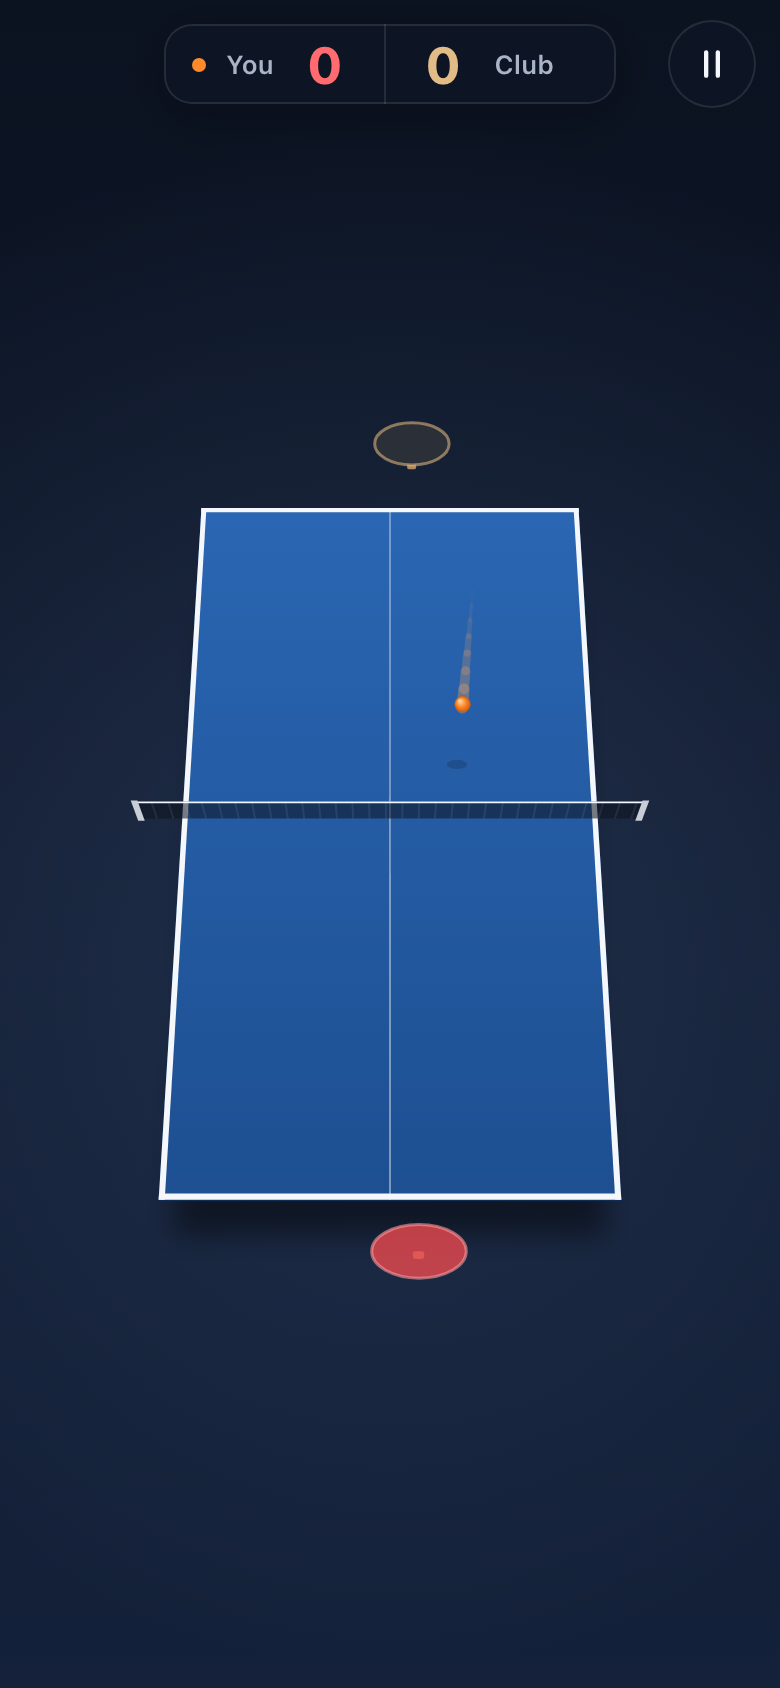
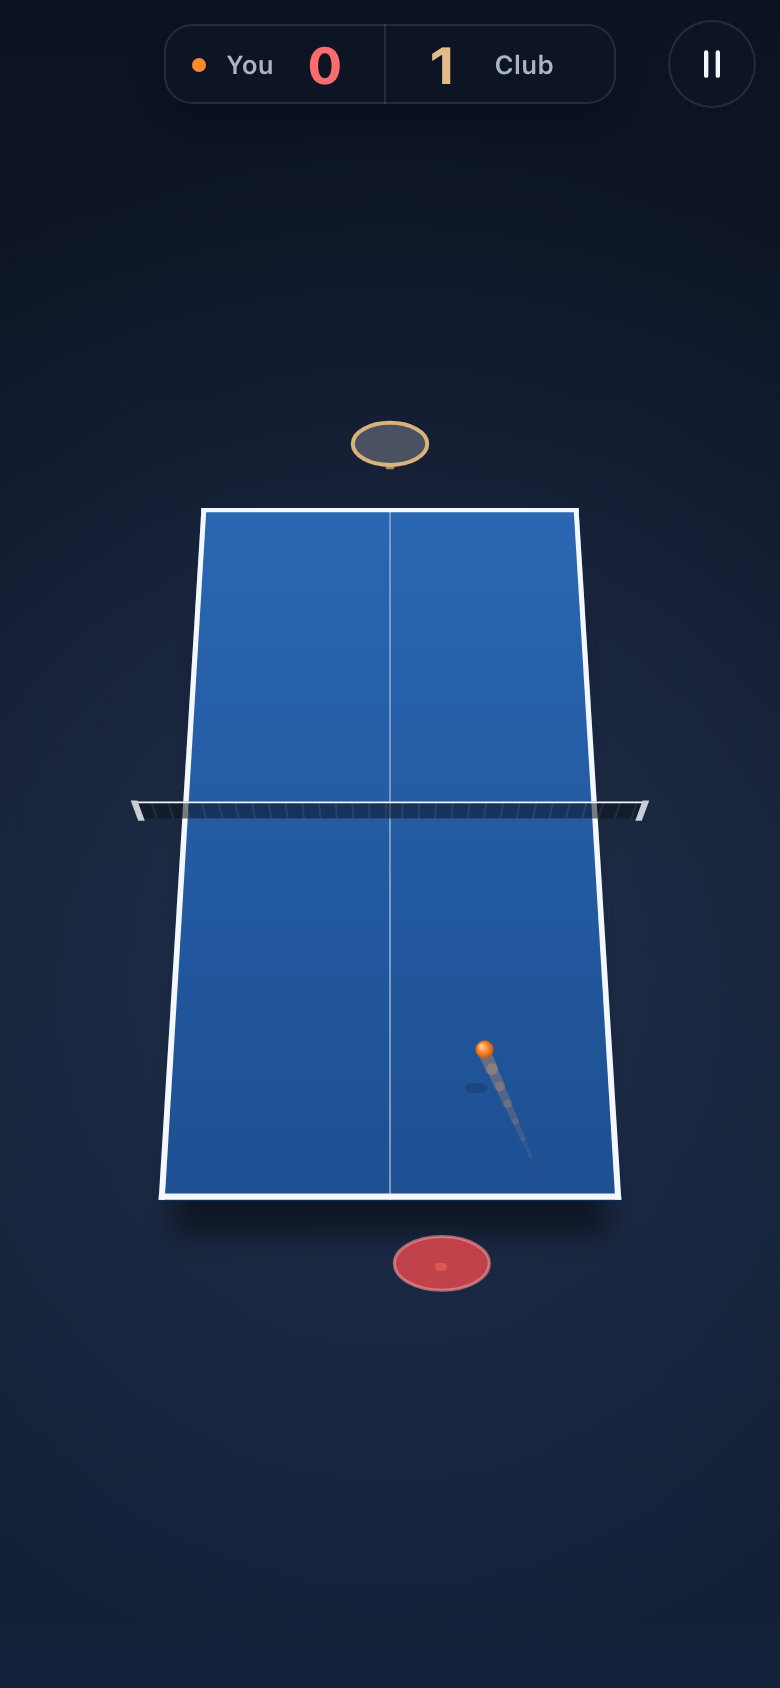
Review round 2: fix two regressions from round 1
- Resize no longer blanks the canvas for a frame: the handler only sets a
  flag and frame() lays out before drawing. A resolution media query also
  triggers it, since moving to a screen with another pixel density fires
  no resize.
- The cropped net layer is translated by its snapped corner, so it lines
  up with the table lines again instead of sitting up to a pixel off.
- A mouse used after a touch on the same device steers directly instead
  of keeping the finger's offset.

diff --git a/src/main.ts b/src/main.ts
@@ -163,6 +163,8 @@ function targetAt(t: number) {
 function onMove(e: PointerEvent) {
   if (screen !== 'play') return;
   if (e.pointerType === 'mouse' ? input.down && e.pointerId !== input.id : e.pointerId !== input.id) return;
+  // A mouse after a touch on the same device steers directly, not with the finger's offset.
+  if (e.pointerType === 'mouse' && input.touch && !input.down) { input.touch = false; input.offX = input.offY = 0; }
   const list = e.getCoalescedEvents?.() ?? [];
   for (const c of list.length ? list : [e]) addSample(c.timeStamp, c.clientX, c.clientY);
   input.lastX = e.clientX; input.lastY = e.clientY;
@@ -187,8 +189,6 @@ canvas.addEventListener('pointerup', (e) => {
   if (input.moved < 14 && e.timeStamp - input.downAt < 400) playerServe();
 });
 canvas.addEventListener('pointercancel', (e) => { if (e.pointerId === input.id) { input.down = false; input.id = -1; } });
-// The mouse steers without a button held, so remember which pointer it is.
-canvas.addEventListener('pointerover', (e) => { if (e.pointerType === 'mouse' && !input.down) input.id = e.pointerId; });
 
 function playerServe() {
   if (screen !== 'play' || replay || pendingEnd || s.live || between > 0) return;
@@ -345,7 +345,7 @@ function frame(now: number) {
   requestAnimationFrame(frame);
   const dt = Math.min(0.1, (now - last) / 1000);
   last = now;
-  if (!cam) return;
+  if (needLayout) { needLayout = false; layout(); }
 
   if (replay) {
     // Slow motion over the last couple of seconds before the end. Pausing holds it.
@@ -494,9 +494,15 @@ for (const d of [el.paused, el.over]) {
   d.addEventListener('cancel', (e) => { e.preventDefault(); if (d.id === 'paused') resume(); else menu(); });
 }
 
-// Resize fires many times during a drag or rotation; lay out at most once a frame.
-let resizeQueued = false;
-addEventListener('resize', () => { if (!resizeQueued) { resizeQueued = true; requestAnimationFrame(() => { resizeQueued = false; layout(); }); } });
+// Resize fires many times during a drag or rotation, so it only sets a flag; frame() lays out
+// before it draws. (Laying out in a later rAF callback would clear the canvas after the draw.)
+let needLayout = false;
+addEventListener('resize', () => { needLayout = true; });
+// Moving the window to a screen with a different pixel density fires no resize.
+function watchDpr() {
+  matchMedia(`(resolution: ${devicePixelRatio}dppx)`).addEventListener('change', () => { needLayout = true; watchDpr(); }, { once: true });
+}
+watchDpr();
 document.addEventListener('visibilitychange', () => {
   if (document.hidden) { pause(); sfx.sleep(); } else if (screen === 'home') sfx.wake();
 });

diff --git a/src/view.ts b/src/view.ts
@@ -91,8 +91,11 @@ function layer(c: Cam, old: Layer | null | undefined, x = 0, y = 0, w = c.w, h =
   const cv = old?.cv ?? document.createElement('canvas');
   cv.width = Math.max(1, Math.ceil(w * c.dpr)); cv.height = Math.max(1, Math.ceil(h * c.dpr));
   const g = cv.getContext('2d')!;
-  g.setTransform(c.dpr, 0, 0, c.dpr, -x * c.dpr, -y * c.dpr);
-  return { L: { cv, x: Math.floor(x * c.dpr), y: Math.floor(y * c.dpr) }, g };
+  // Snap the corner to a whole device pixel and translate by exactly that, so the layer lands
+  // where it would have in a full-screen canvas.
+  const lx = Math.floor(x * c.dpr), ly = Math.floor(y * c.dpr);
+  g.setTransform(c.dpr, 0, 0, c.dpr, -lx, -ly);
+  return { L: { cv, x: lx, y: ly }, g };
 }
 
 // Floor, table and lines. Everything here sits on or below the table top.

diff --git a/src/style.css b/src/style.css
@@ -80,7 +80,6 @@ body[data-mode=solo] .solo-score { display: flex; }
 .call { top: calc(var(--safe-t) + 66px); font-size: 0.9375rem; font-weight: 650; padding: 7px 16px; border-radius: 18px; white-space: pre-line; line-height: 1.3; background: var(--glass); box-shadow: inset 0 0 0 1px var(--glass-line); }
 .call.on, .prompt.on { opacity: 1; transform: translate(-50%, 0); }
 .call.mine { color: var(--you); }
-.call::first-line { font-size: 0.9375rem; }
 .prompt { bottom: calc(var(--safe-b) + 22px); font-size: 0.9375rem; font-weight: 650; color: var(--ink); }
 .prompt.on { animation: breathe 2.4s ease-in-out infinite; }
 @keyframes breathe { 50% { opacity: .8; } }
